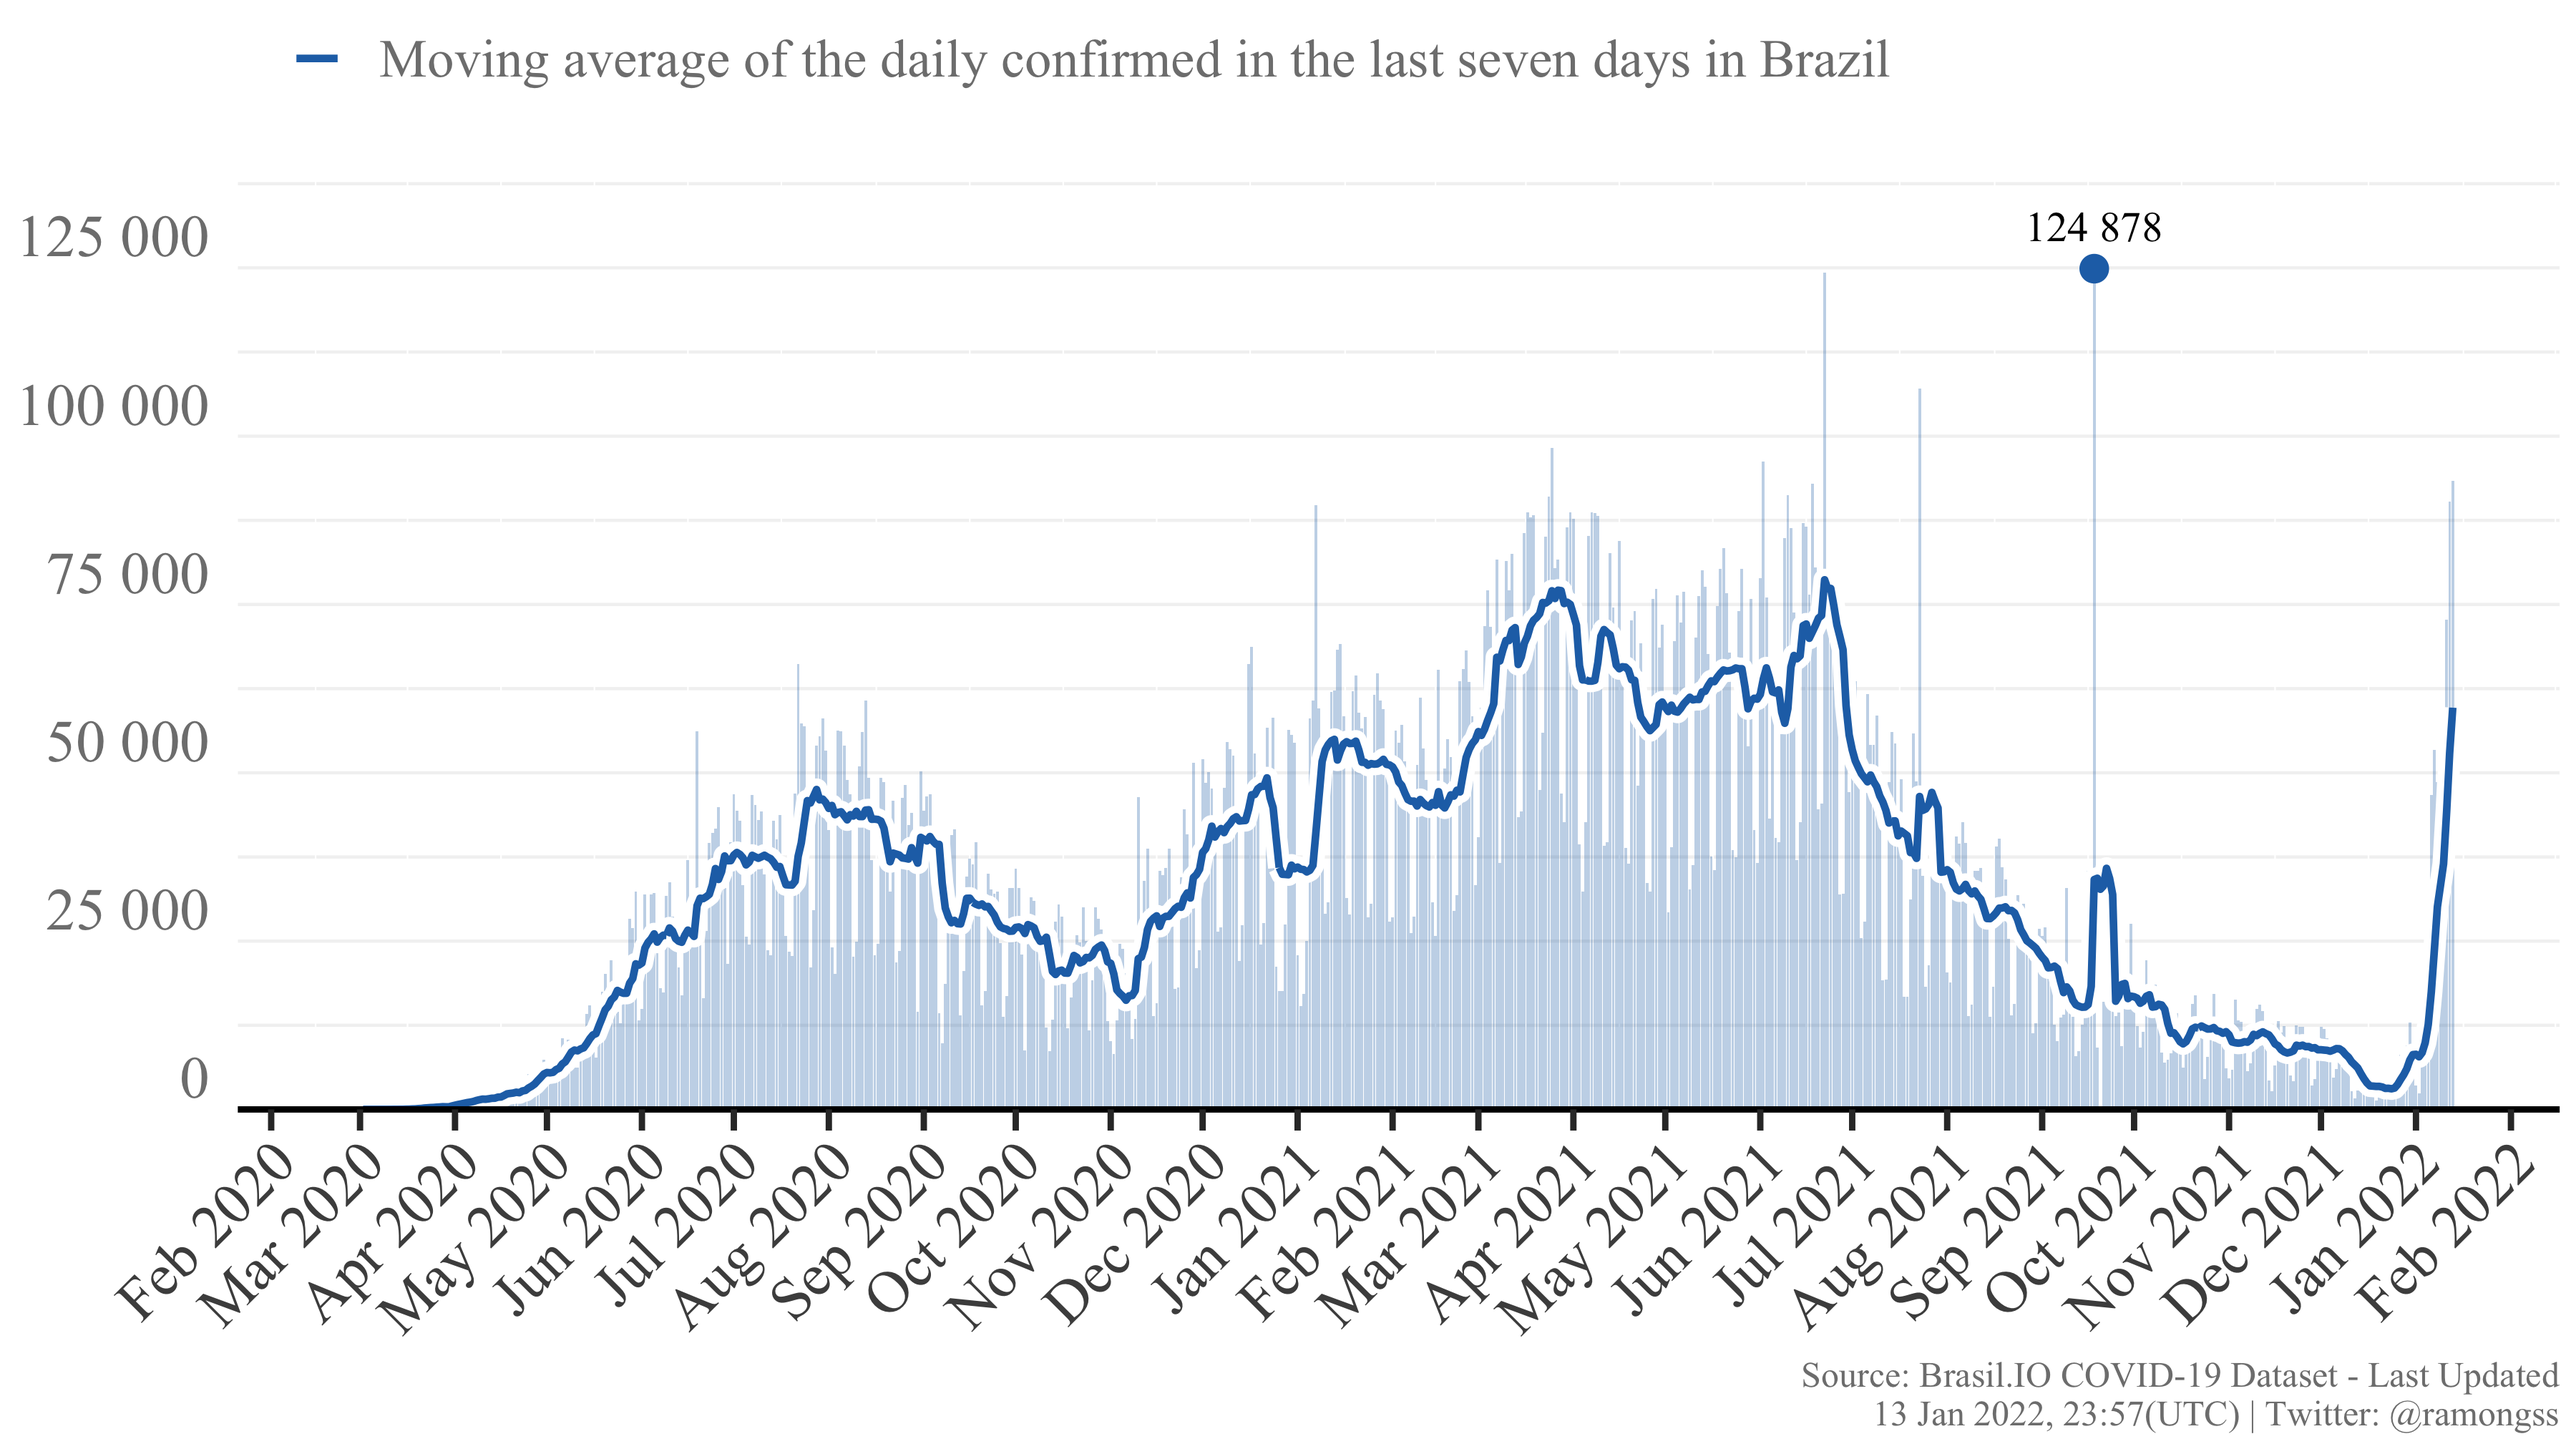
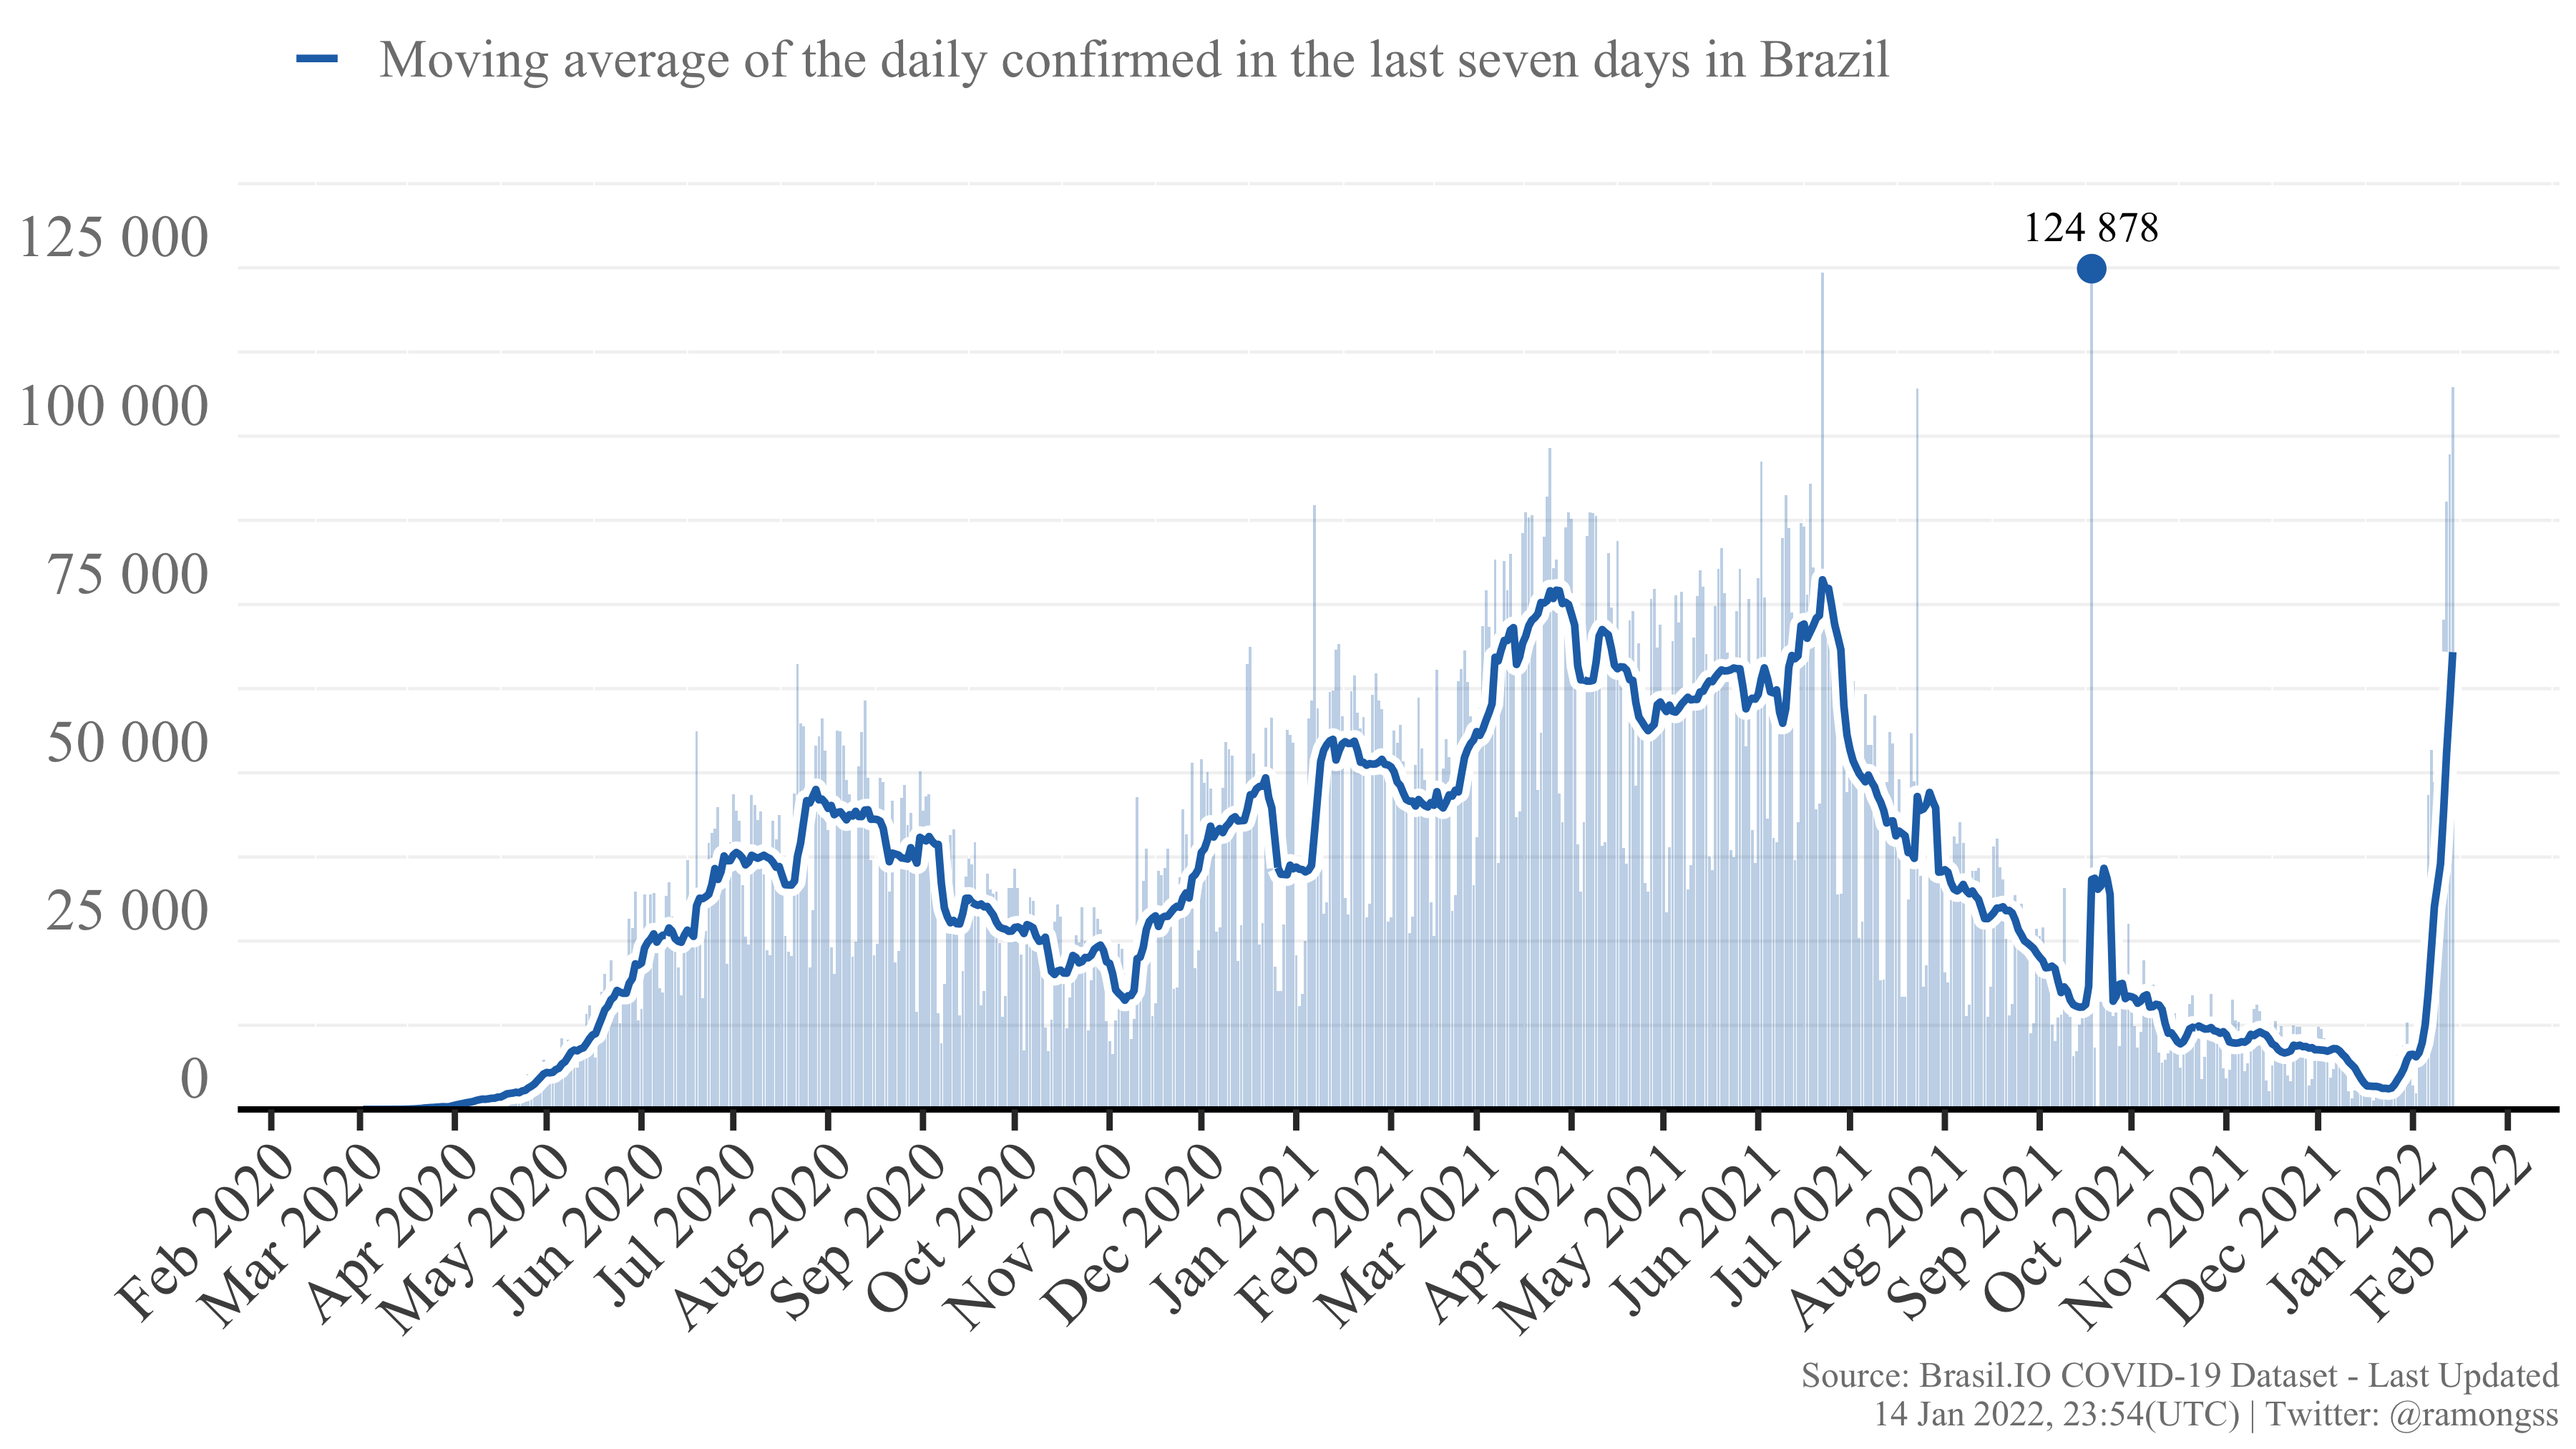
Re-build README.Rmd

diff --git a/README.md b/README.md
@@ -27,8 +27,8 @@ download_brasilio_table <- function(dataset = "covid19", table_name){
 
 ## COVID-19 Confirmed cases
 
-Currently, Brazil has a total of **22,822,177** confirmed cases at **13
-Jan, 2022**, with **93,402** new confirmed cases. The daily maximum
+Currently, Brazil has a total of **22,933,289** confirmed cases at **14
+Jan, 2022**, with **107,252** new confirmed cases. The daily maximum
 incidence was **124,878** confirmed cases at **18 Sep, 2021**. Here
 follows the Figure showing the confirmed case incidence as the bars, and
 the line as the moving average of the last 7 days.
@@ -37,8 +37,8 @@ the line as the moving average of the last 7 days.
 
 ## COVID-19 Deaths
 
-Currently, Brazil has a total of **620,830** deaths at **13 Jan, 2022**,
-with **186** new deaths. The daily maximum deaths incidence was
+Currently, Brazil has a total of **621,063** deaths at **14 Jan, 2022**,
+with **220** new deaths. The daily maximum deaths incidence was
 **4,148** deaths at **08 Apr, 2021**. Here follows the Figure showing
 the deaths incidence as the bars, and the line as the moving average of
 the last 7 days.
@@ -49,4 +49,4 @@ the last 7 days.
 
 This page is daily updated automatically using Github Actions.
 
-*Last update: 13 Jan 2022, 23:57 (UTC).*
+*Last update: 14 Jan 2022, 23:54 (UTC).*
